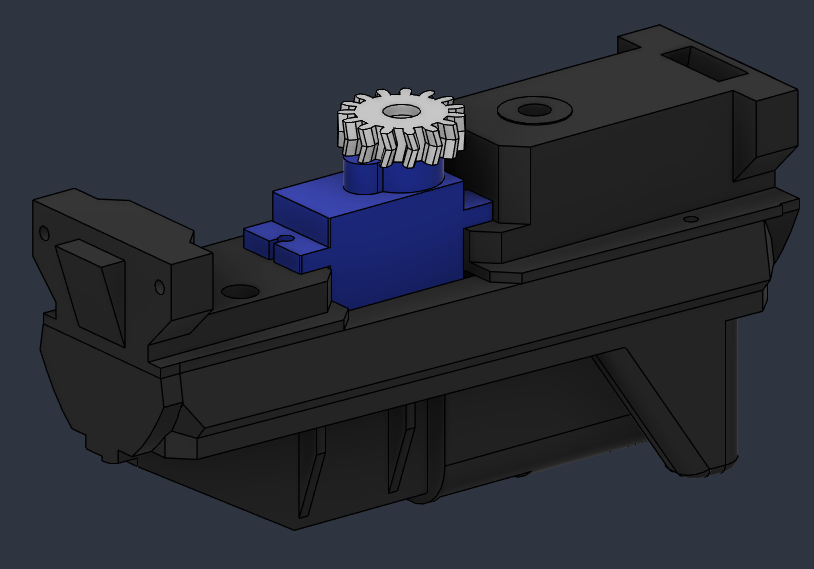
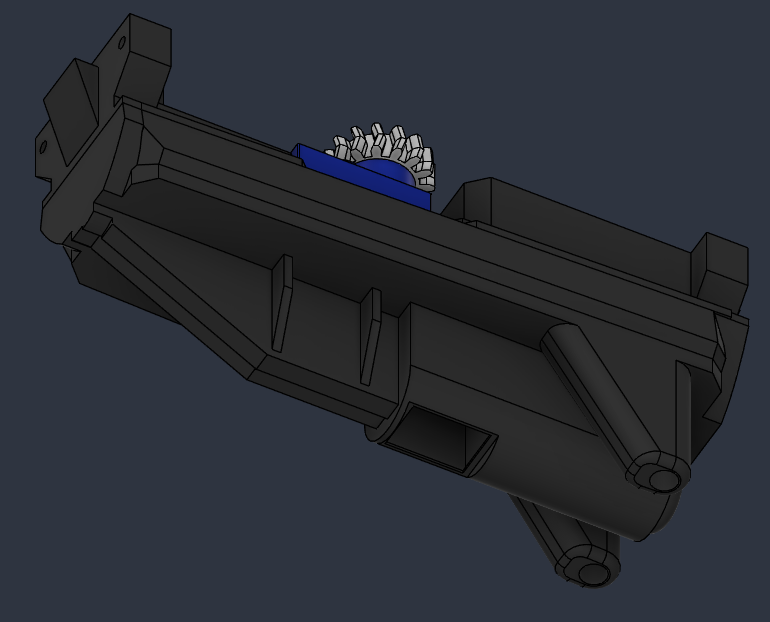
First parts of the guide written. Slow but steady.

diff --git a/README.md b/README.md
@@ -1,3 +1,11 @@
+<style>
+    .step-img {
+        width: 400px;
+        height: 400px;
+        object-fit: contain;
+        background-color: #2e3440;
+    }
+</style>
 # Portal Turret v4
 
 A Portal-style turret powered by an ESP32-S3 (Lolin S3 Mini). It detects people with a mmWave radar, opens its wings, extends its guns and tracks targets, complete with sound and lights.
@@ -16,26 +24,27 @@ A Portal-style turret powered by an ESP32-S3 (Lolin S3 Mini). It detects people 
 
 ## Bill of materials
 
-Lolin Wemos S3
-LD2450 Radar Sensor
-OH49E Hall Effect Sensor - SS49E compatible
-ADXL345 Digital 3-axis Accelerometer Module
-MAX98357 Audio amp
-SN74AHCT125N 4-channel Level Converter
+- Lolin Wemos S3
+- LD2450 Radar Sensor
+- OH49E Hall Effect Sensor - SS49E compatible
+- ADXL345 Digital 3-axis Accelerometer Module
+- MAX98357 Audio amp
+- SN74AHCT125N 4-channel Level Converter
+- Small rocker switch
 
-SK6812 Digital 5050 RGB LED Ring
-4 SG90 180 servo
-2 SG90 360 servo
-5 WS2812 5mm LED
+- SK6812 Digital 5050 RGB LED Ring
+- 4 SG90 180 servo
+- 2 SG90 360 servo
+- 5 WS2812 5mm LED
 
-604ZZ Ball Bearing - 4x12x4mm
-MYT LM6LUU Linear Ball Bearing - 2 pieces (35mm length)
-4mm steel rod
-6mm steel rod
+- 604ZZ Ball Bearing - 4x12x4mm
+- MYT LM6LUU Linear Ball Bearing - 2 pieces (35mm length)
+- 4mm steel rod
+- 6mm steel rod
 
-JST PH crimp set OR JST PH headers and pre-crimped JST PH cables
-Pin headers
-2mm wood screws
+- JST PH crimp set OR JST PH headers and pre-crimped JST PH cables
+- Pin headers
+- 2mm wood screws
 
 ## 3D printing
 
@@ -51,75 +60,69 @@ Here's raw screenshots. Explicit information comes later.
 
 ### X axis
 
-<img src="images/x_axis_001.png" alt="X axis 1" width="500">
-
-<img src="images/x_axis_002.png" alt="X axis 2" width="500">
-
-<img src="images/x_axis_003.png" alt="X axis 3" width="500">
-
-<img src="images/x_axis_004.png" alt="X axis 4" width="500">
+| Notes | Images |
+| --- | --- |
+| Screw the two halves together. | <img src="images/x_axis_001.png" alt="X axis 2" class="step-img" width="400" height="400"> |
+| Insert the LM6LUU and 604ZZ bearings. Screw the gears on the two 360 servos. | <img src="images/x_axis_002.png" alt="X axis 2" class="step-img" width="400" height="400"> |
+| Solder the wires to the hall sensors. Use shrink tubing to protect the leads. Insert the hall sensors into the slots. The beveled face is the front and should point towards the space where the rack gears will slide. | <img src="images/x_axis_003.png" alt="X axis 3" class="step-img" width="400" height="400"> | 
+| Tuck the wires underneath the little lip. This should help with keeping the hall sensors in place. If they don't want to stay seated, a drop of superglue should help. | <img src="images/x_axis_004.png" alt="X axis 4" class="step-img" width="400" height="400"> | 
 
 ### Z axis
-
-<img src="images/z_axis_001.png" alt="Z axis 1" width="500">
-
-<img src="images/z_axis_002.png" alt="Z axis 2" width="500">
-
-<img src="images/z_axis_003.png" alt="Z axis 3" width="500">
-
-<img src="images/z_axis_004.png" alt="Z axis 4" width="500">
+| Notes | Images |
+| --- | --- |
+| Screw on the X Axis gear on a 180 servo. Slide it in place and use the channels to screw it down. | <img src="images/z_axis_001.png" alt="Z axis 1" class="step-img" width="400" height="400"> |
+| Attach one side. | <img src="images/z_axis_002.png" alt="Z axis 2" class="step-img" width="400" height="400"> |
+| Slide a 4mm rod through the X axis. Add a 4mm shim on both sides. There is a slot in the frame where the rod should fit. | <img src="images/z_axis_003.png" alt="Z axis 3" class="step-img" width="400" height="400"> |
+| Scew on the bottom and the other side. | <img src="images/z_axis_004.png" alt="Z axis 4" class="step-img" width="400" height="400"> |
 
 ### Bottom
-
-<img src="images/bottom_001.png" alt="Bottom 1" width="500">
-
-<img src="images/bottom_002.png" alt="Bottom 2" width="500">
+| Notes | Images |
+| --- | --- |
+| Screw the Z Axis gear on a 180 servo. Attach the servo to the Servo Mount. The USB-C board should be glued into place. If you can't get a solid connection with glue, a tiny screw with some heatshrink could be screwed through the D- slot. Make sure the screw does not short D- to ground, hence the heatshrink. | <img src="images/bottom_001.png" alt="Bottom 1" class="step-img" width="400" height="400"> |
+| The main board power wire should have the black wire soldered to the GND pad of the USB board. The red wire should slide to the bottom. Another red wire should be soldered to the 5V (Vcc) pad of the USB board. Slide those through the channels. Attach the two power wires by appropriate connectors or soldering to the switch and slide it in the bottom. Route the servo wire up through the same channels. | <img src="images/bottom_003.png" alt="Bottom 2" class="step-img" width="400" height="400"> |
+| Slide the switch in the slot on the bottom. | <img src="images/bottom_002.png" alt="Bottom 2" class="step-img" width="400" height="400"> |
+| The servo mount is attached to the bottom with 4 more screws. | <img src="images/bottom_004.png" alt="Bottom 2" class="step-img" width="400" height="400"> |
 
 ### Eye
-
-<img src="images/eye_001.png" alt="Eye 1" width="500">
+| Notes | Images |
+| --- | --- |
+|  | <img src="images/eye_001.png" alt="Eye 1" class="step-img" width="400" height="400"> |
 
 ### Gantry
 
-<img src="images/gantry_001.png" alt="Gantry 1" width="500">
-
-<img src="images/gantry_002.png" alt="Gantry 2" width="500">
-
-<img src="images/gantry_003.png" alt="Gantry 3" width="500">
+| Notes | Images |
+| --- | --- |
+|  | <img src="images/gantry_001.png" alt="Gantry 1" class="step-img" width="400" height="400"> |
+|  | <img src="images/gantry_002.png" alt="Gantry 2" class="step-img" width="400" height="400"> |
+|  | <img src="images/gantry_003.png" alt="Gantry 3" class="step-img" width="400" height="400"> |
 
 ### Guns
 
-<img src="images/gun_001.png" alt="Gun 1" width="500">
-
-<img src="images/gun_002.png" alt="Gun 2" width="500">
-
-<img src="images/gun_003.png" alt="Gun 3" width="500">
-
-<img src="images/gun_004.png" alt="Gun 4" width="500">
-
-<img src="images/gun_005.png" alt="Gun 5" width="500">
-
-<img src="images/gun_006.png" alt="Gun 6" width="500">
-
-<img src="images/gun_007.png" alt="Gun 7" width="500">
-
-<img src="images/gun_008.png" alt="Gun 8" width="500">
-
-<img src="images/gun_009.png" alt="Gun 9" width="500">
+| Notes | Images |
+| --- | --- |
+|  | <img src="images/gun_001.png" alt="Gun 1" class="step-img" width="400" height="400"> |
+|  | <img src="images/gun_002.png" alt="Gun 2" class="step-img" width="400" height="400"> |
+|  | <img src="images/gun_003.png" alt="Gun 3" class="step-img" width="400" height="400"> |
+|  | <img src="images/gun_004.png" alt="Gun 4" class="step-img" width="400" height="400"> |
+|  | <img src="images/gun_005.png" alt="Gun 5" class="step-img" width="400" height="400"> |
+|  | <img src="images/gun_006.png" alt="Gun 6" class="step-img" width="400" height="400"> |
+|  | <img src="images/gun_007.png" alt="Gun 7" class="step-img" width="400" height="400"> |
+|  | <img src="images/gun_008.png" alt="Gun 8" class="step-img" width="400" height="400"> |
+|  | <img src="images/gun_009.png" alt="Gun 9" class="step-img" width="400" height="400"> |
 
 ### Wings
 
-<img src="images/wing_001.png" alt="Wing 1" width="500">
-
-<img src="images/wing_002.png" alt="Wing 2" width="500">
-
-<img src="images/wing_003.png" alt="Wing 3" width="500">
-
-<img src="images/wing_004.png" alt="Wing 4" width="500">
+| Notes | Images |
+| --- | --- |
+|  | <img src="images/wing_001.png" alt="Wing 1" class="step-img" width="400" height="400"> |
+|  | <img src="images/wing_002.png" alt="Wing 2" class="step-img" width="400" height="400"> |
+|  | <img src="images/wing_003.png" alt="Wing 3" class="step-img" width="400" height="400"> |
+|  | <img src="images/wing_004.png" alt="Wing 4" class="step-img" width="400" height="400"> |
 
 ### Leg
-
-<img src="images/leg_001.png" alt="Leg 1" width="500">
+| Notes | Images |
+| --- | --- |
+|  | <img src="images/leg_001.png" alt="Leg 1" class="step-img" width="400" height="400"> |
 
 ## Firmware
 
